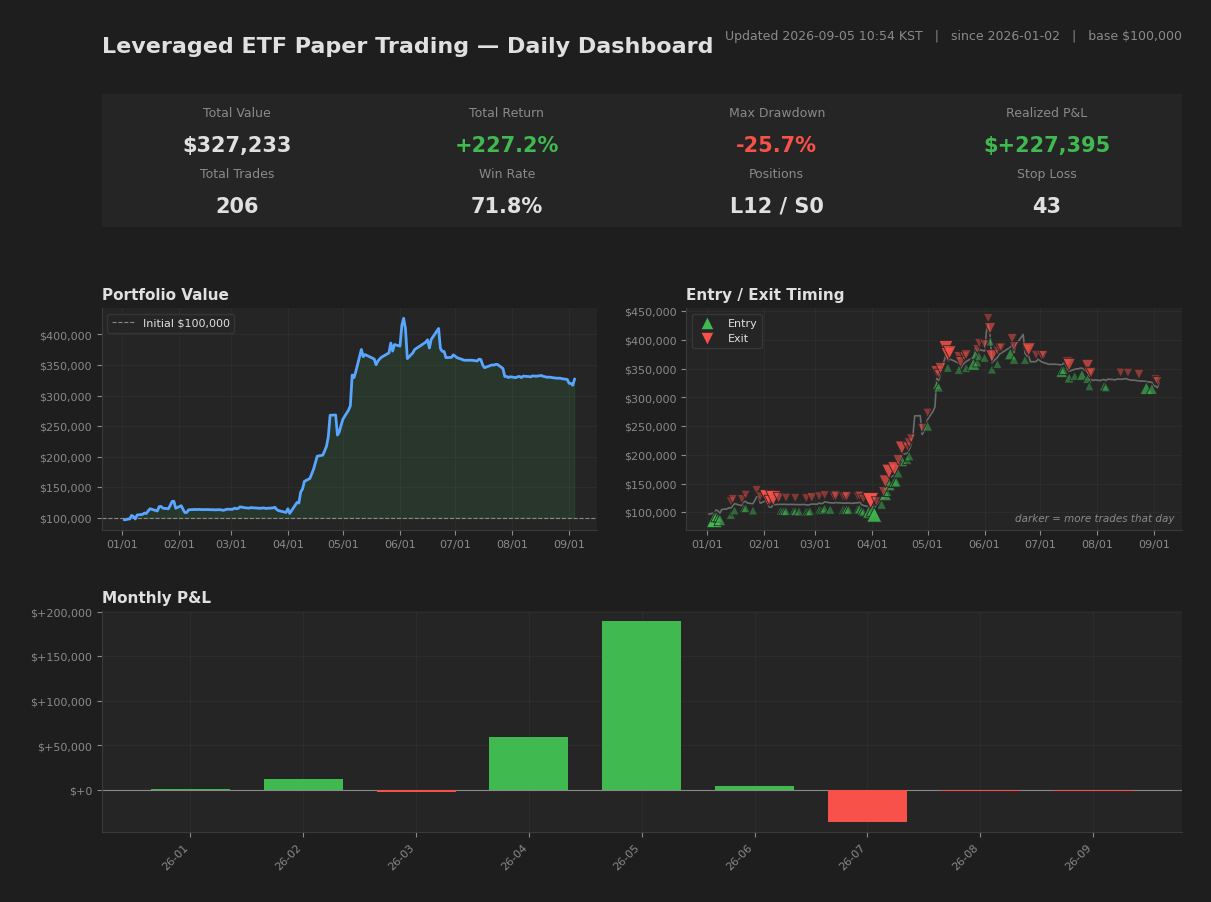
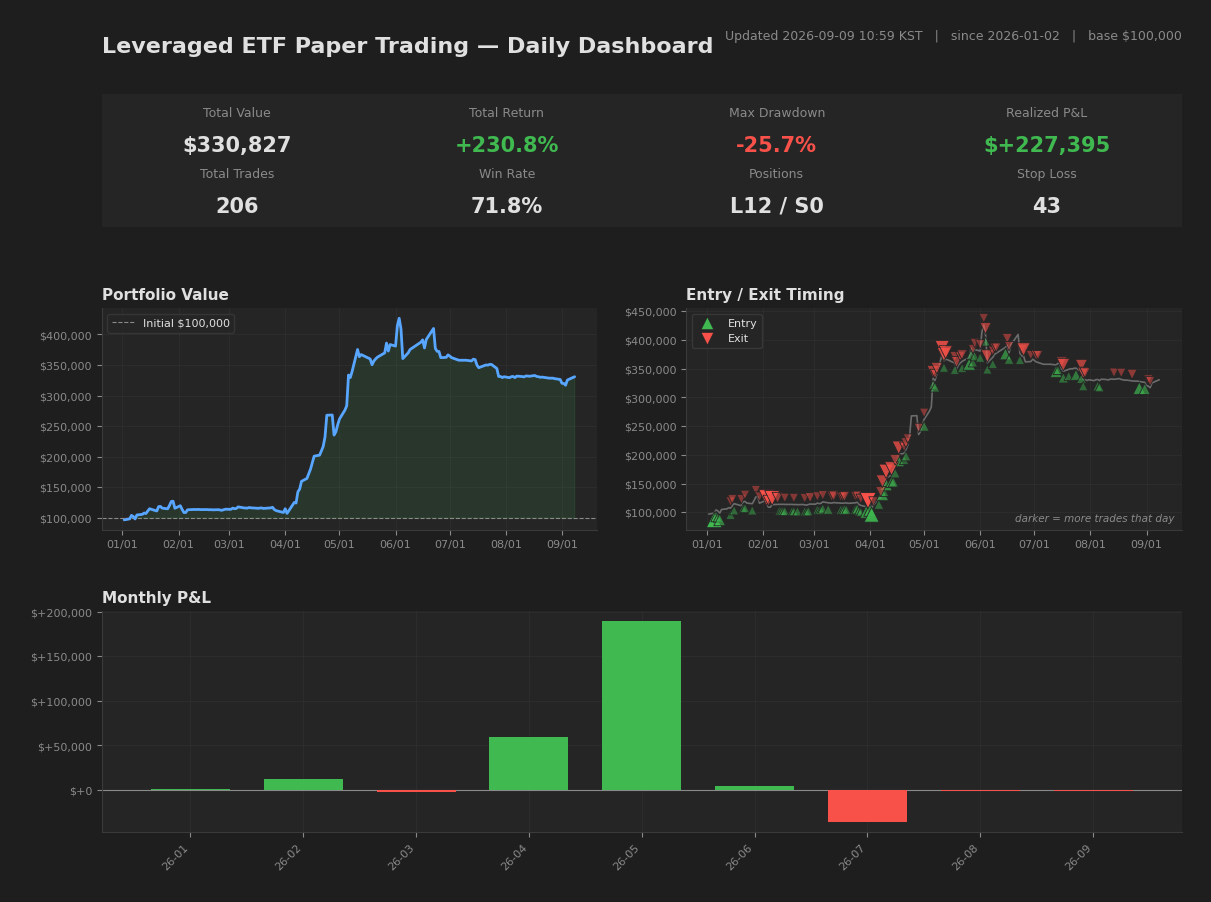
[2026-09-08] Close
Portfolio: $330,827 (+230.8%)
Positions: 12 (L12 S0)
Cumulative: 148/206 wins, P&L: $+227,395

diff --git a/README.md b/README.md
@@ -20,7 +20,7 @@ Drawdown control vs. benchmark. While the benchmark experienced a maximum drawdo
 
 <!-- METRICS:BEGIN (auto-generated by snapshot_backup.py after each market close; do not edit by hand) -->
 - Maximum drawdown: **-25.68%** (peak 2026-06-03 -> trough 2026-09-03, recovered since)
-- As of **2026-09-04** market close. Updated automatically after each close.
+- As of **2026-09-08** market close. Updated automatically after each close.
 <!-- METRICS:END -->
 
 Execution costs. Because the strategy holds positions over multi-day periods with low turnover, the impact of slippage and commissions is designed to be limited rather than a primary driver of results.
